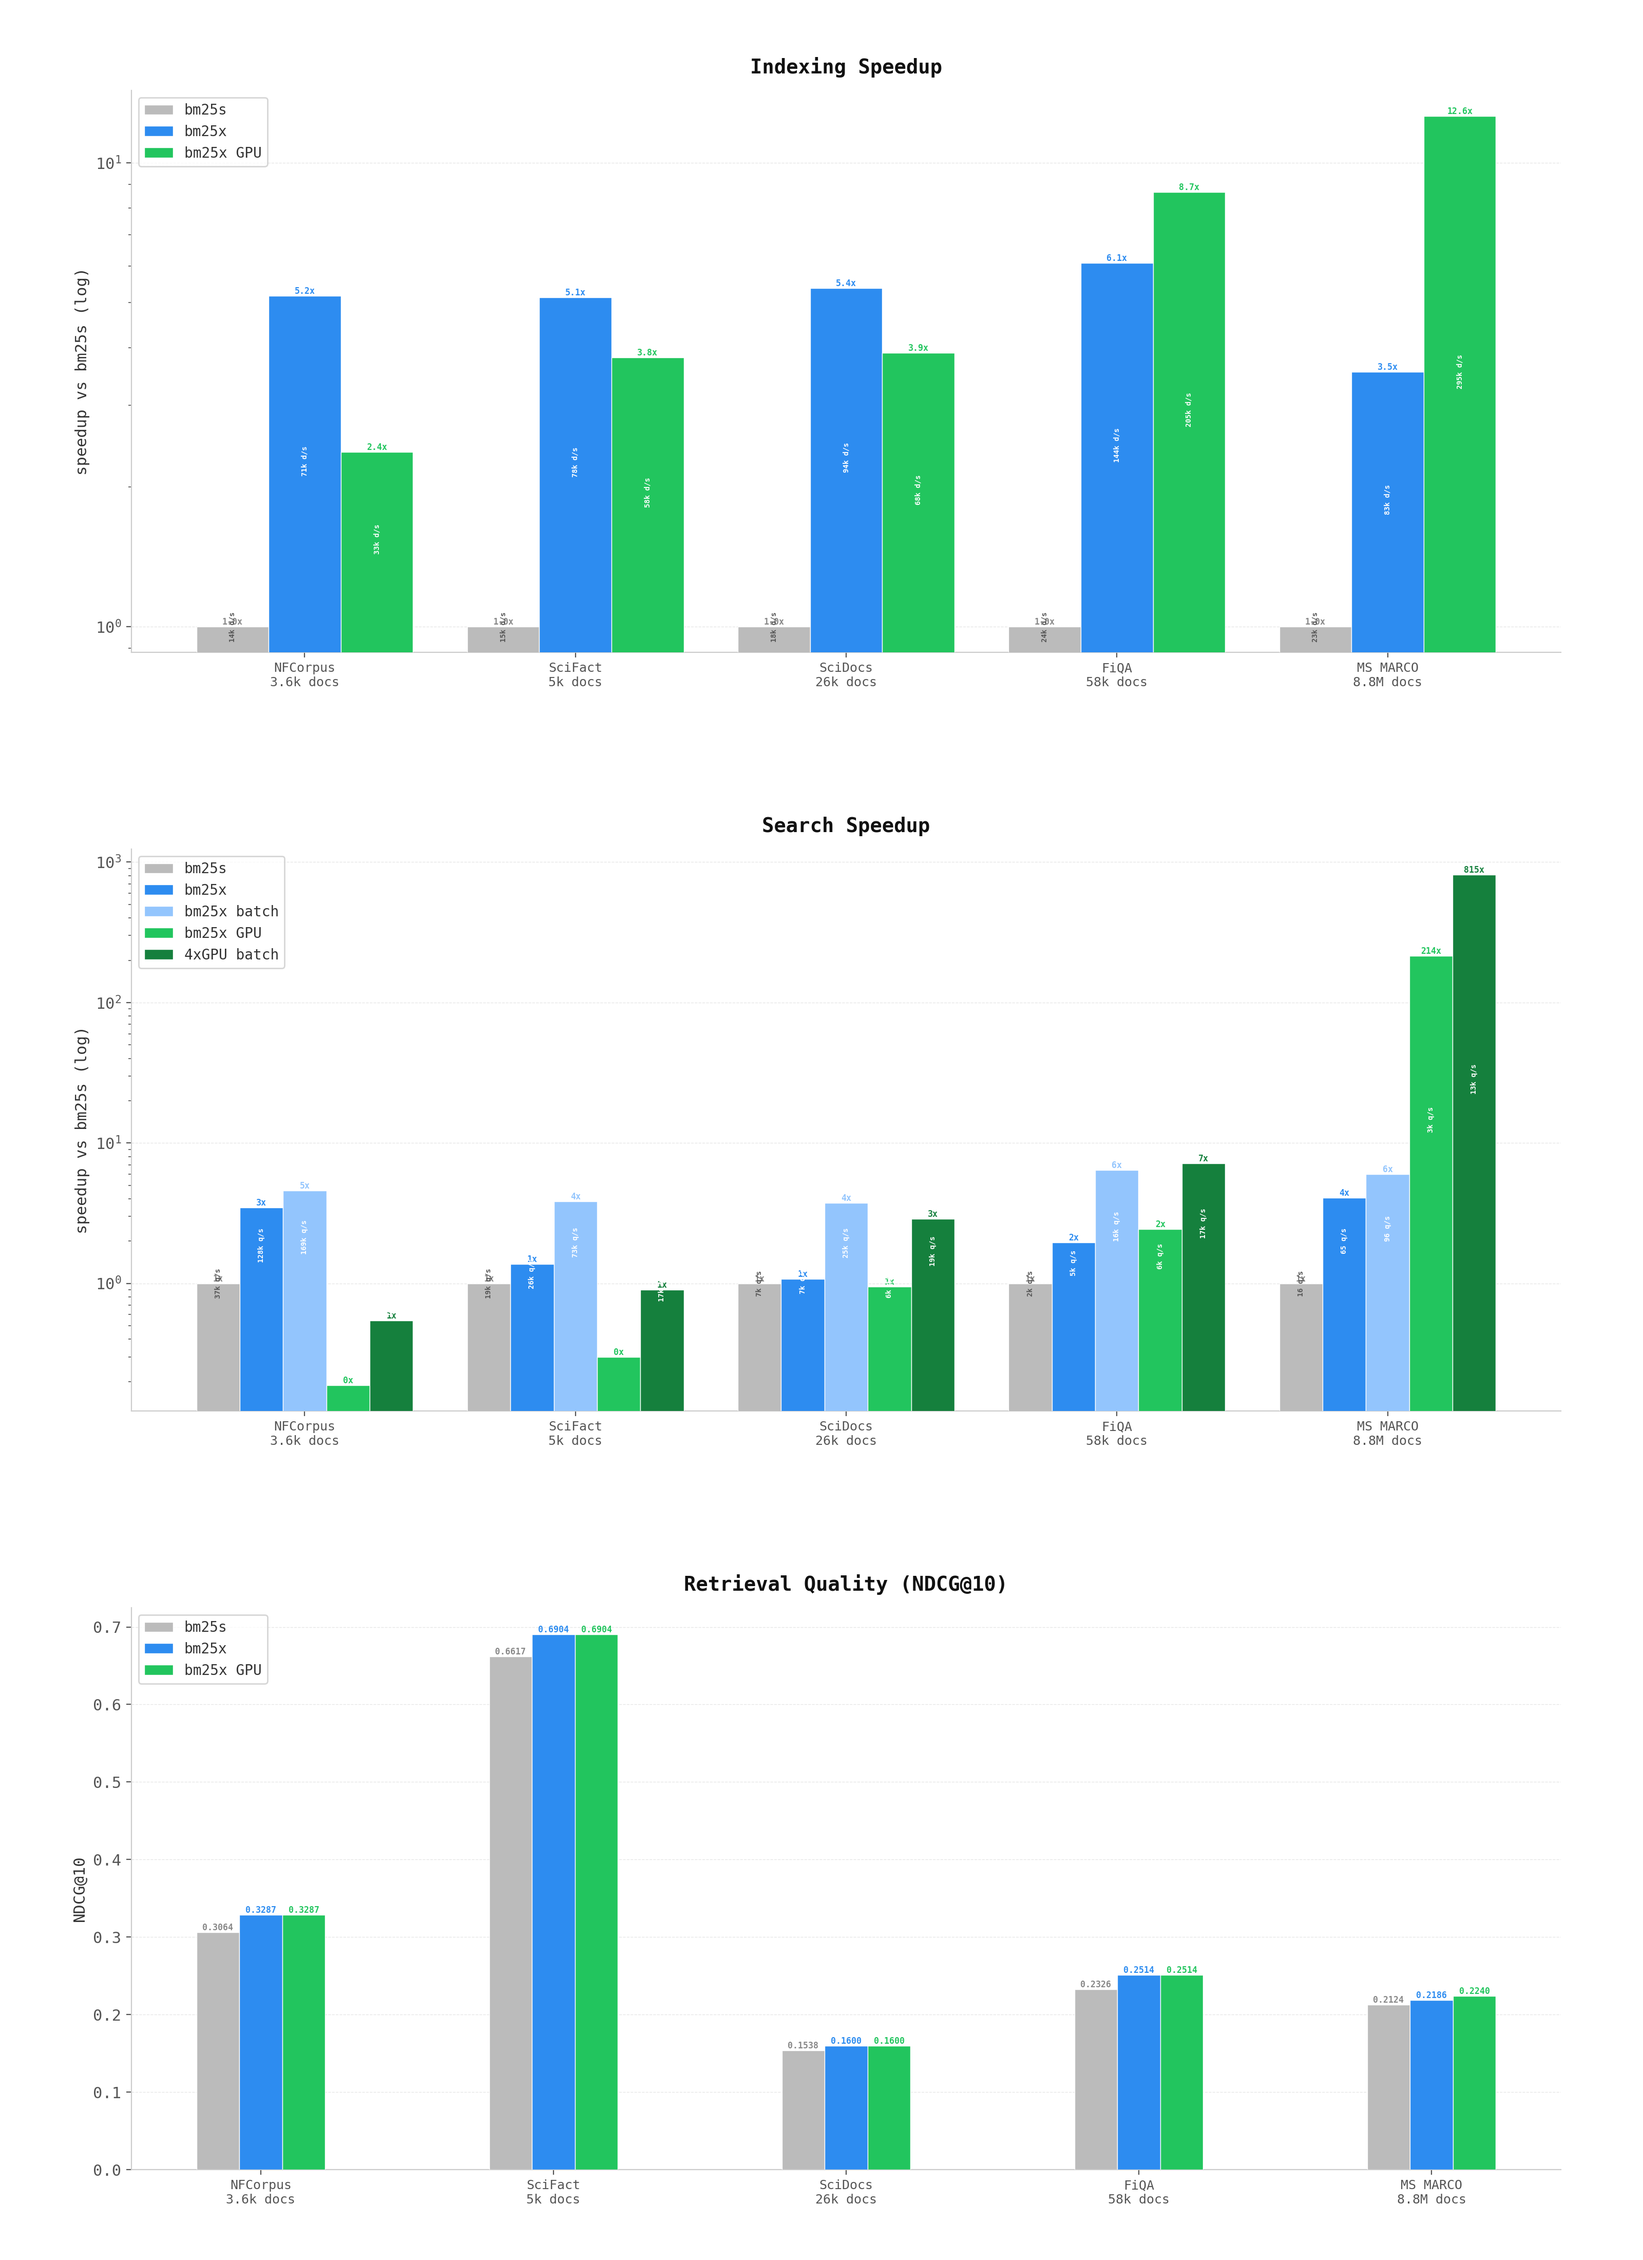
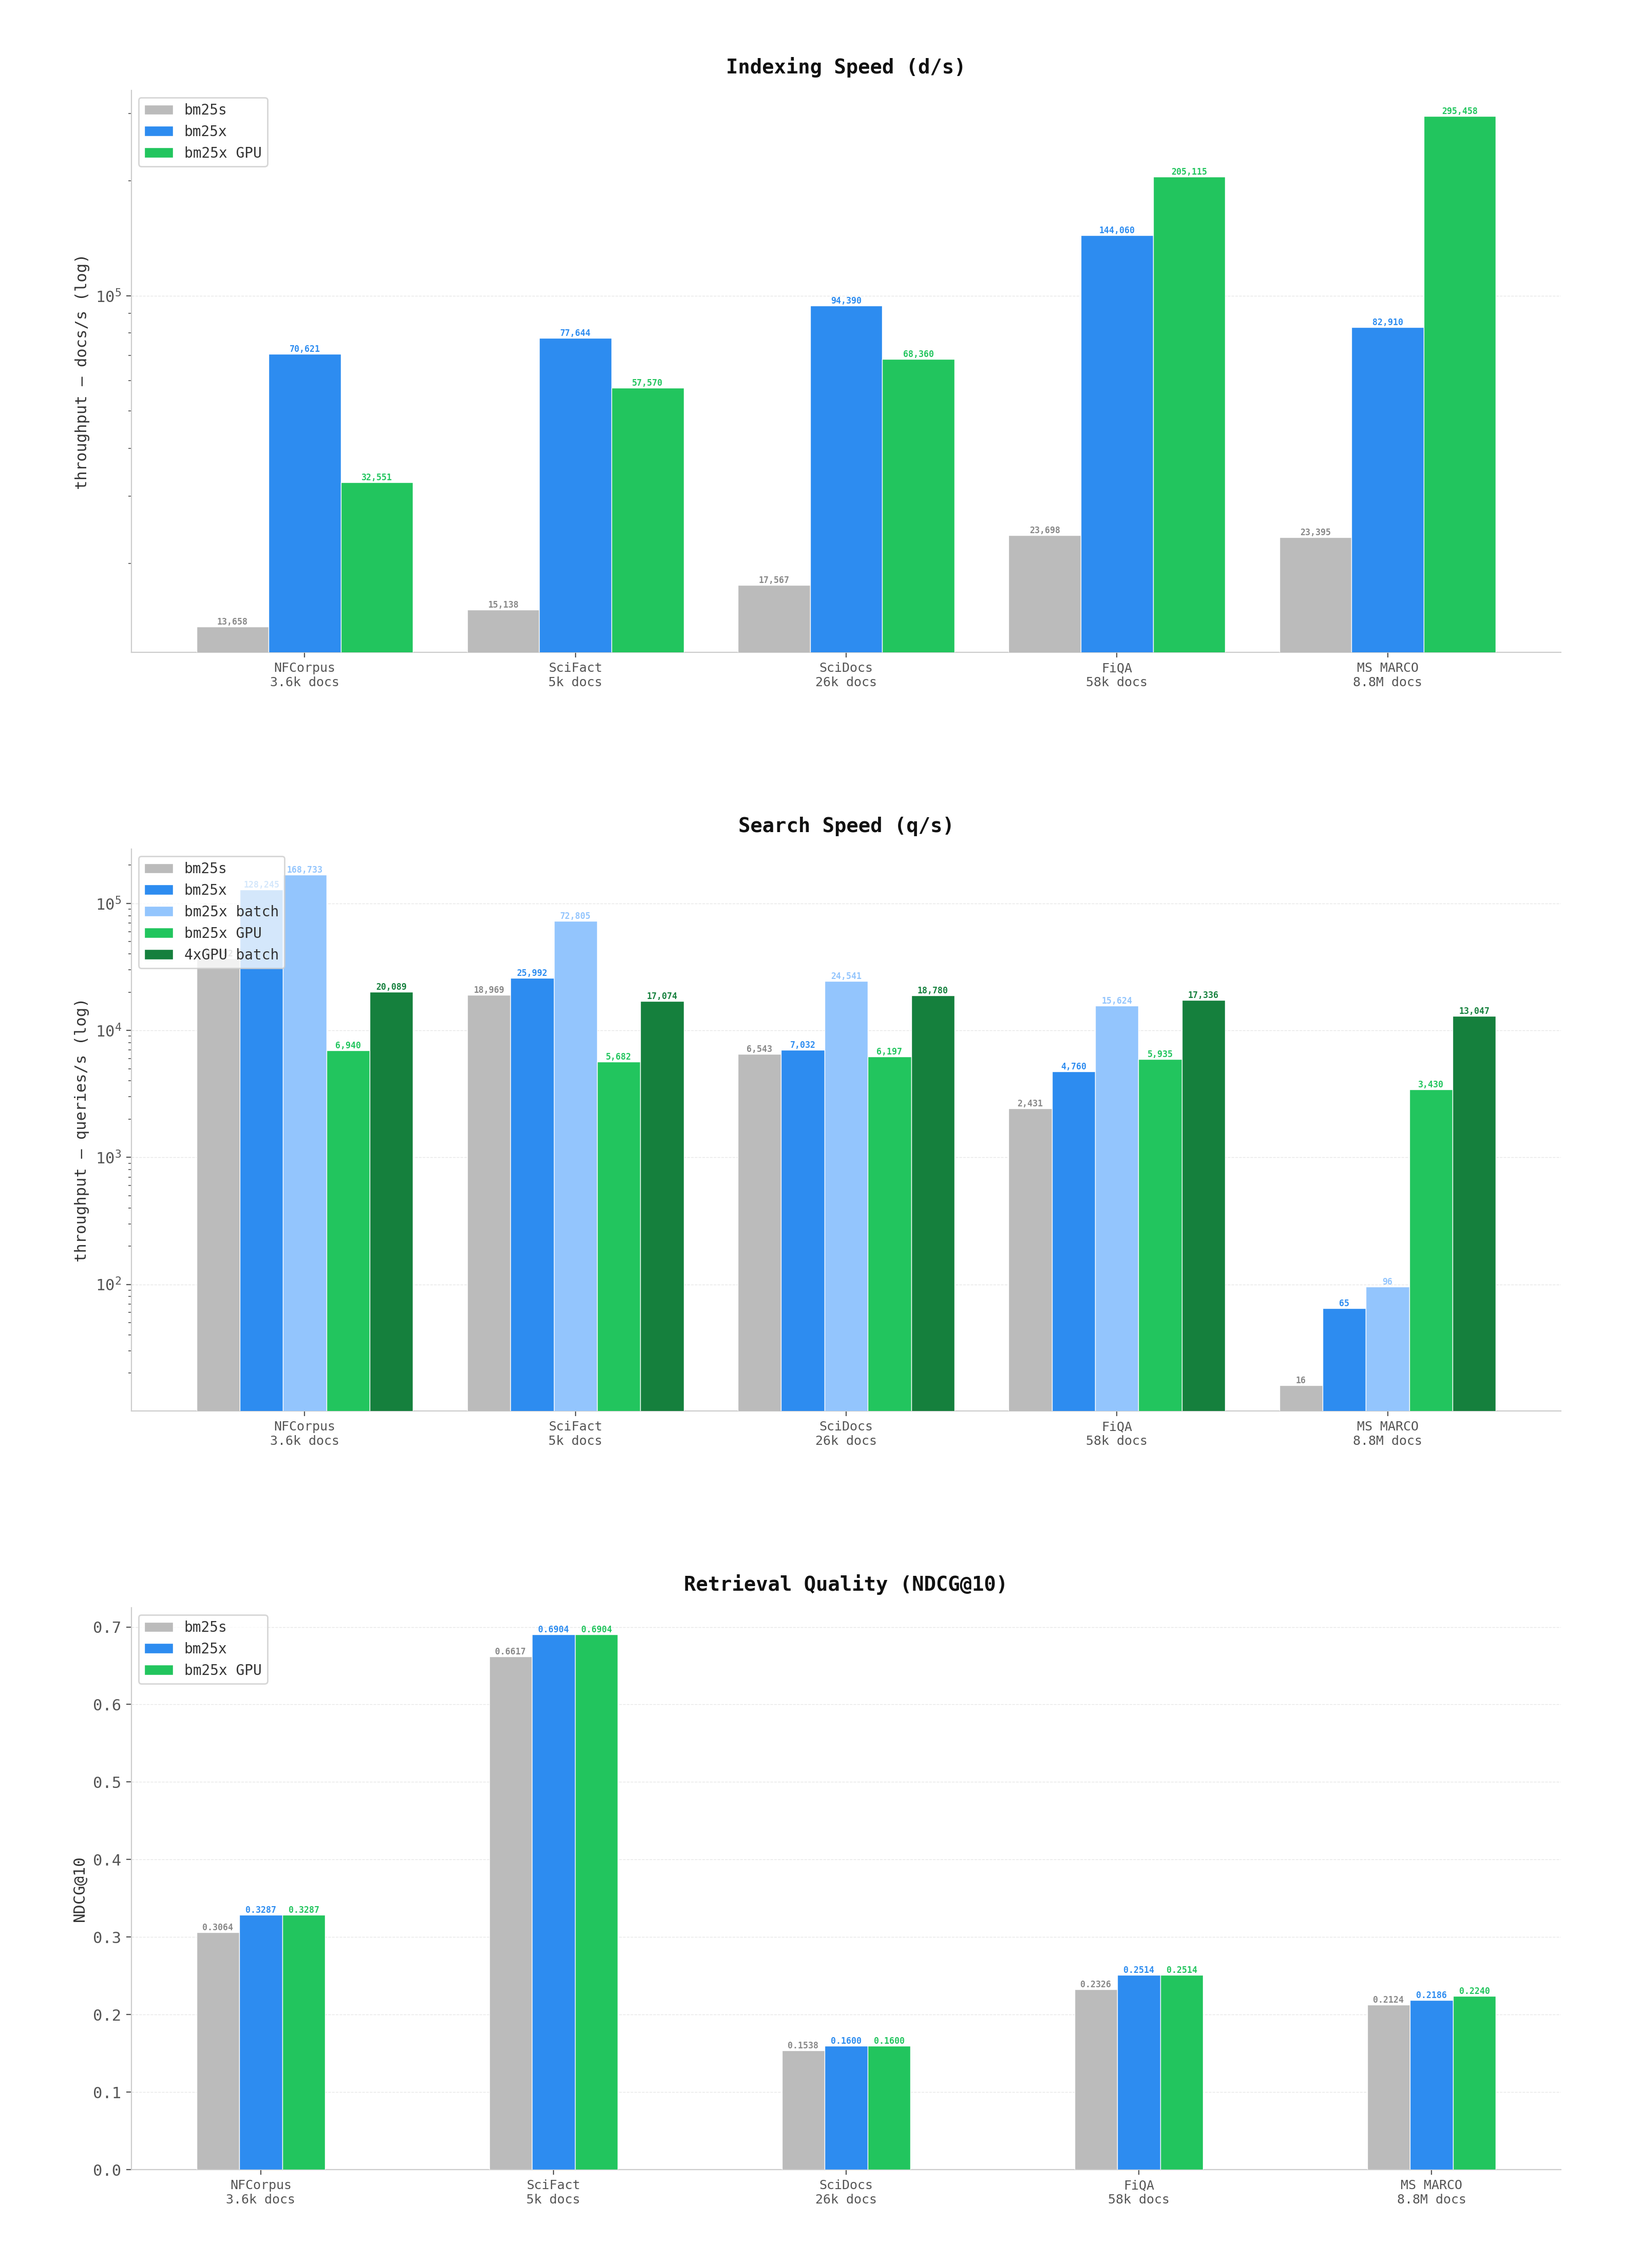
Update charts: show absolute d/s and q/s throughput on log scale
Indexing chart now shows docs/s, search chart shows queries/s.
Both use log scale with absolute values instead of relative speedups.

diff --git a/benchmarks/generate_charts.py b/benchmarks/generate_charts.py
@@ -157,38 +157,28 @@ fig.subplots_adjust(hspace=0.35, left=0.08, right=0.95, top=0.96, bottom=0.04)
 grouped_bar(
     ax_index,
     datasets,
-    [("bm25s", baseline), ("bm25x", idx_su_x), ("bm25x GPU", idx_su_gpu)],
-    "speedup vs bm25s (log)",
-    "Indexing Speedup",
-    fmt="{:.1f}x",
+    [("bm25s", index_tput_bm25s), ("bm25x", index_tput_bm25x), ("bm25x GPU", index_tput_bm25x_gpu)],
+    "throughput — docs/s (log)",
+    "Indexing Speed (d/s)",
+    fmt="{:,.0f}",
     log_scale=True,
-    abs_values=[index_tput_bm25s, index_tput_bm25x, index_tput_bm25x_gpu],
-    abs_unit="d/s",
 )
 
-# Search speedup (top right)
+# Search throughput
 grouped_bar(
     ax_search,
     datasets,
     [
-        ("bm25s", baseline),
-        ("bm25x", s_su_x),
-        ("bm25x batch", s_su_batch),
-        ("bm25x GPU", s_su_gpu),
-        ("4xGPU batch", s_su_4gpu),
+        ("bm25s", search_bm25s),
+        ("bm25x", search_bm25x),
+        ("bm25x batch", search_bm25x_batch),
+        ("bm25x GPU", search_bm25x_gpu),
+        ("4xGPU batch", search_bm25x_4gpu),
     ],
-    "speedup vs bm25s (log)",
-    "Search Speedup",
-    fmt="{:.0f}x",
+    "throughput — queries/s (log)",
+    "Search Speed (q/s)",
+    fmt="{:,.0f}",
     log_scale=True,
-    abs_values=[
-        search_bm25s,
-        search_bm25x,
-        search_bm25x_batch,
-        search_bm25x_gpu,
-        search_bm25x_4gpu,
-    ],
-    abs_unit="q/s",
 )
 
 # Retrieval quality (bottom, full width)
